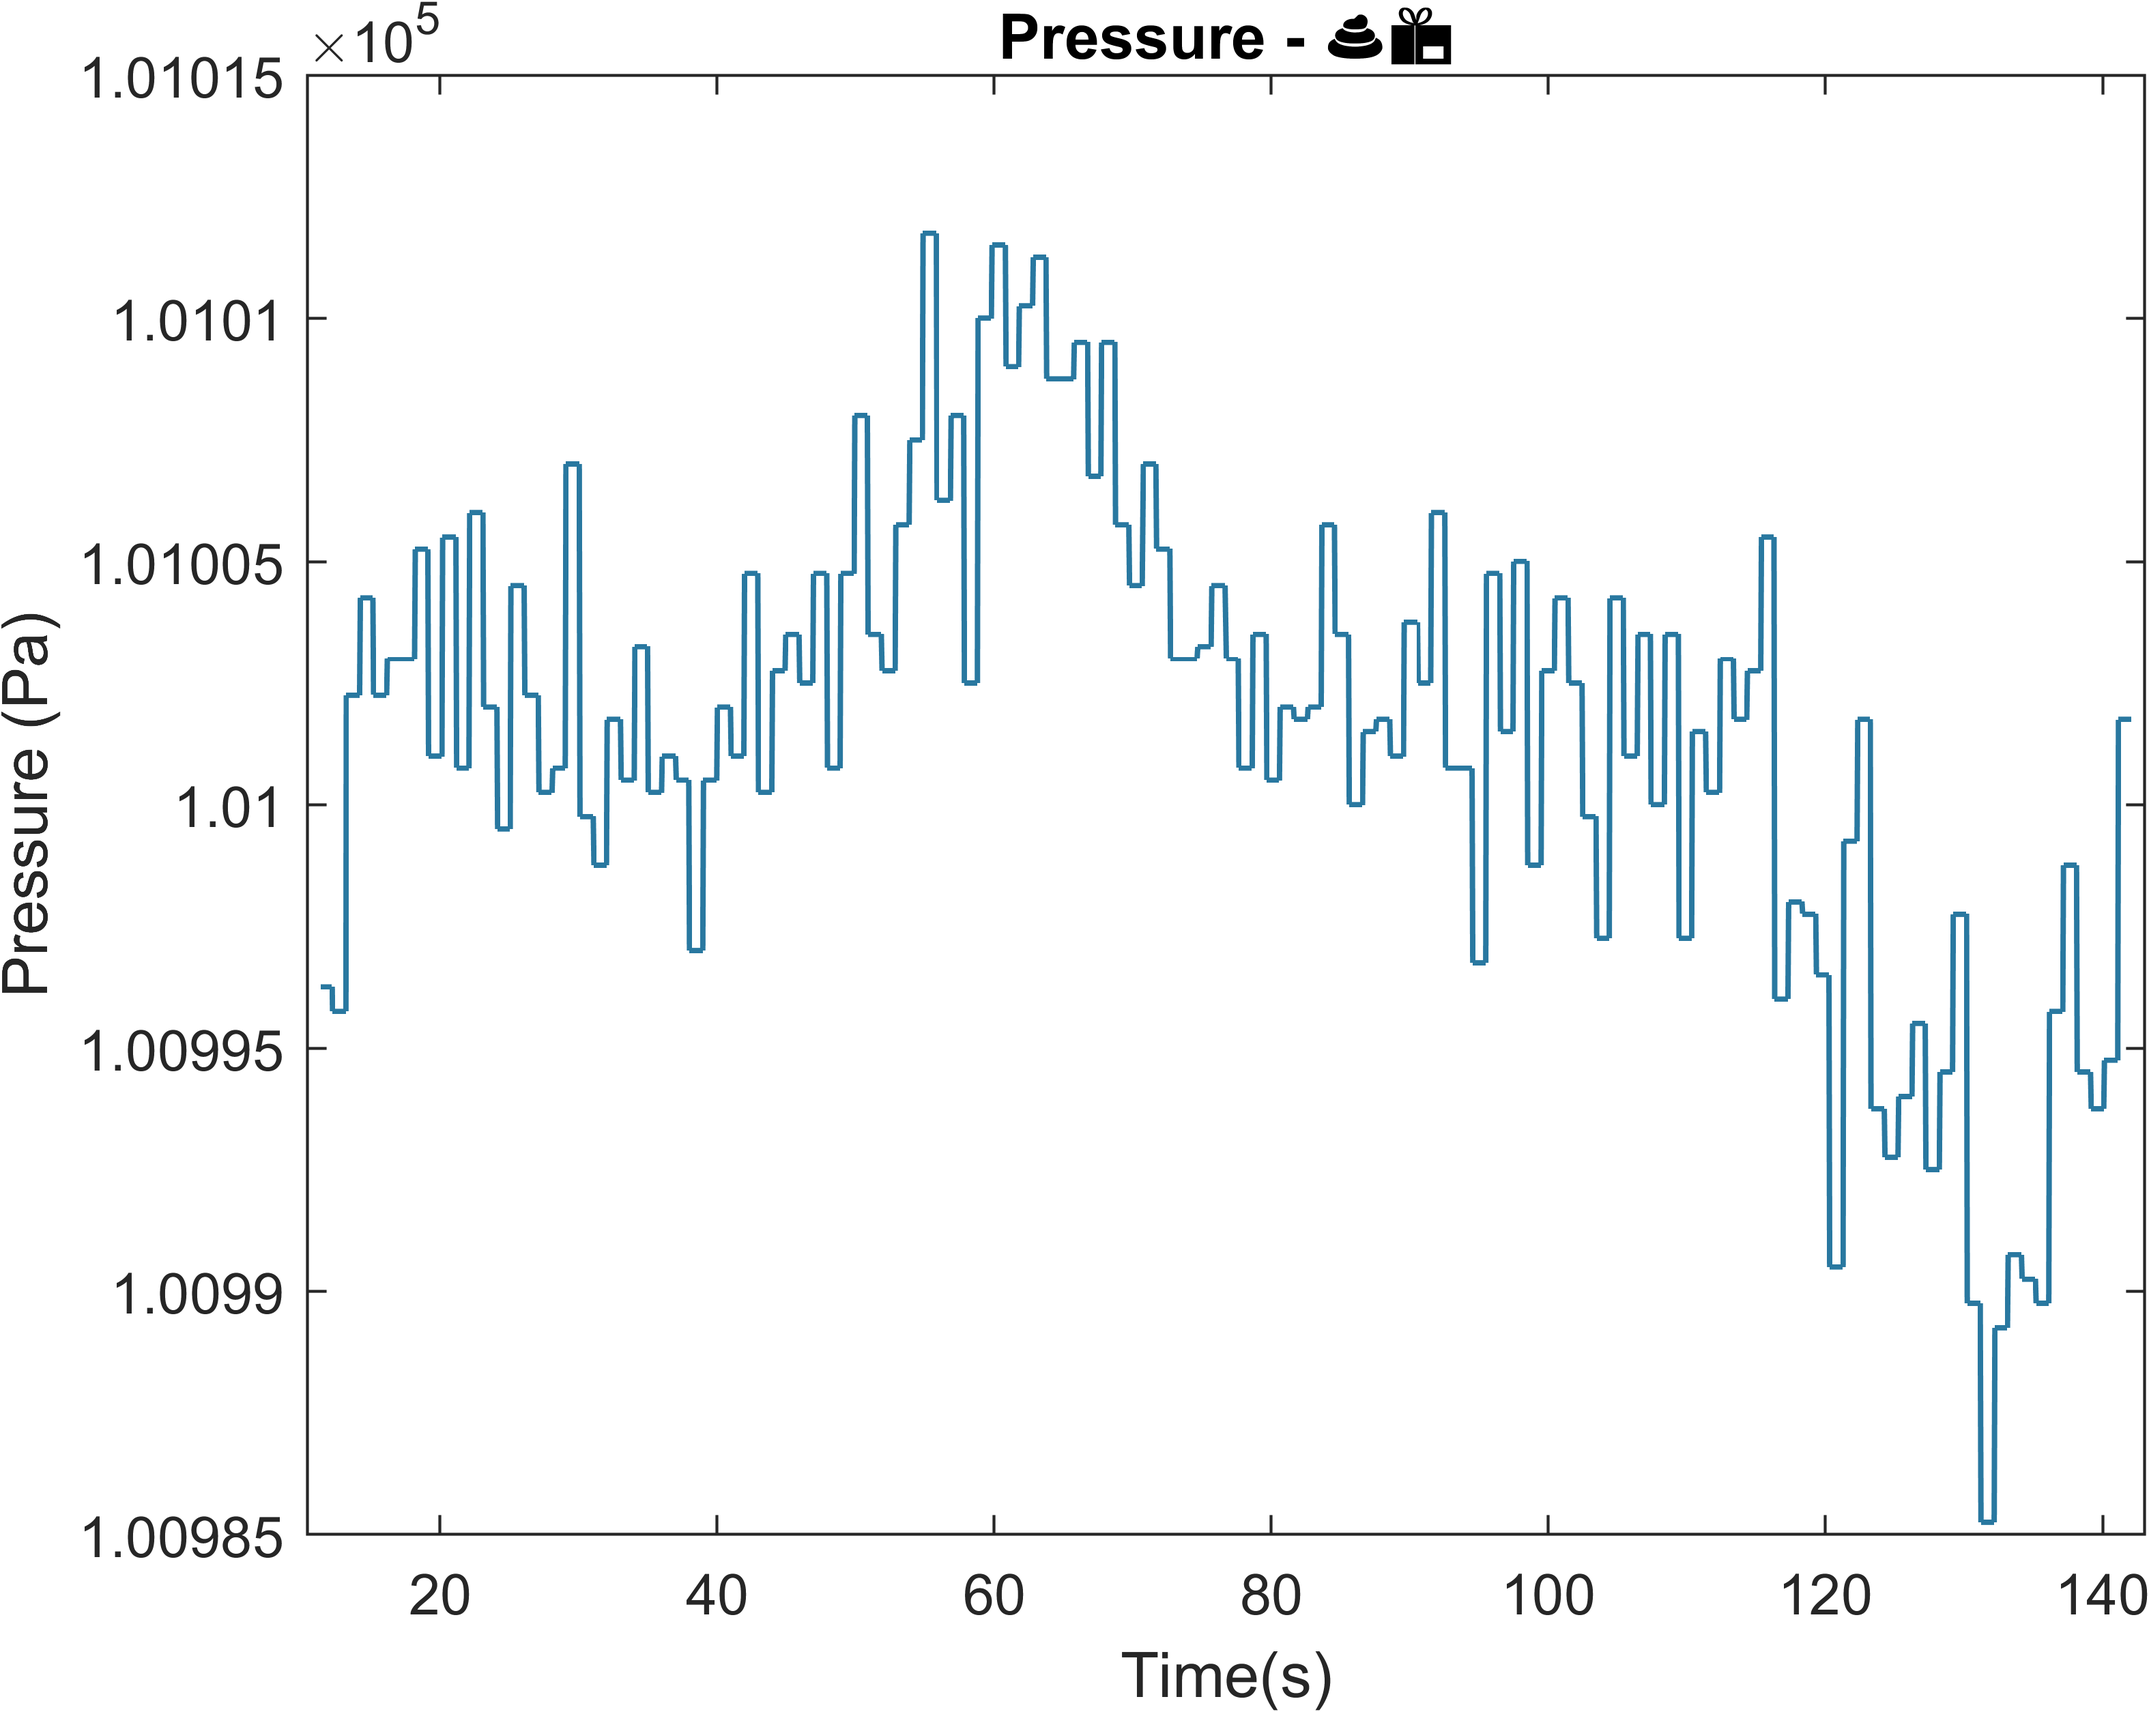
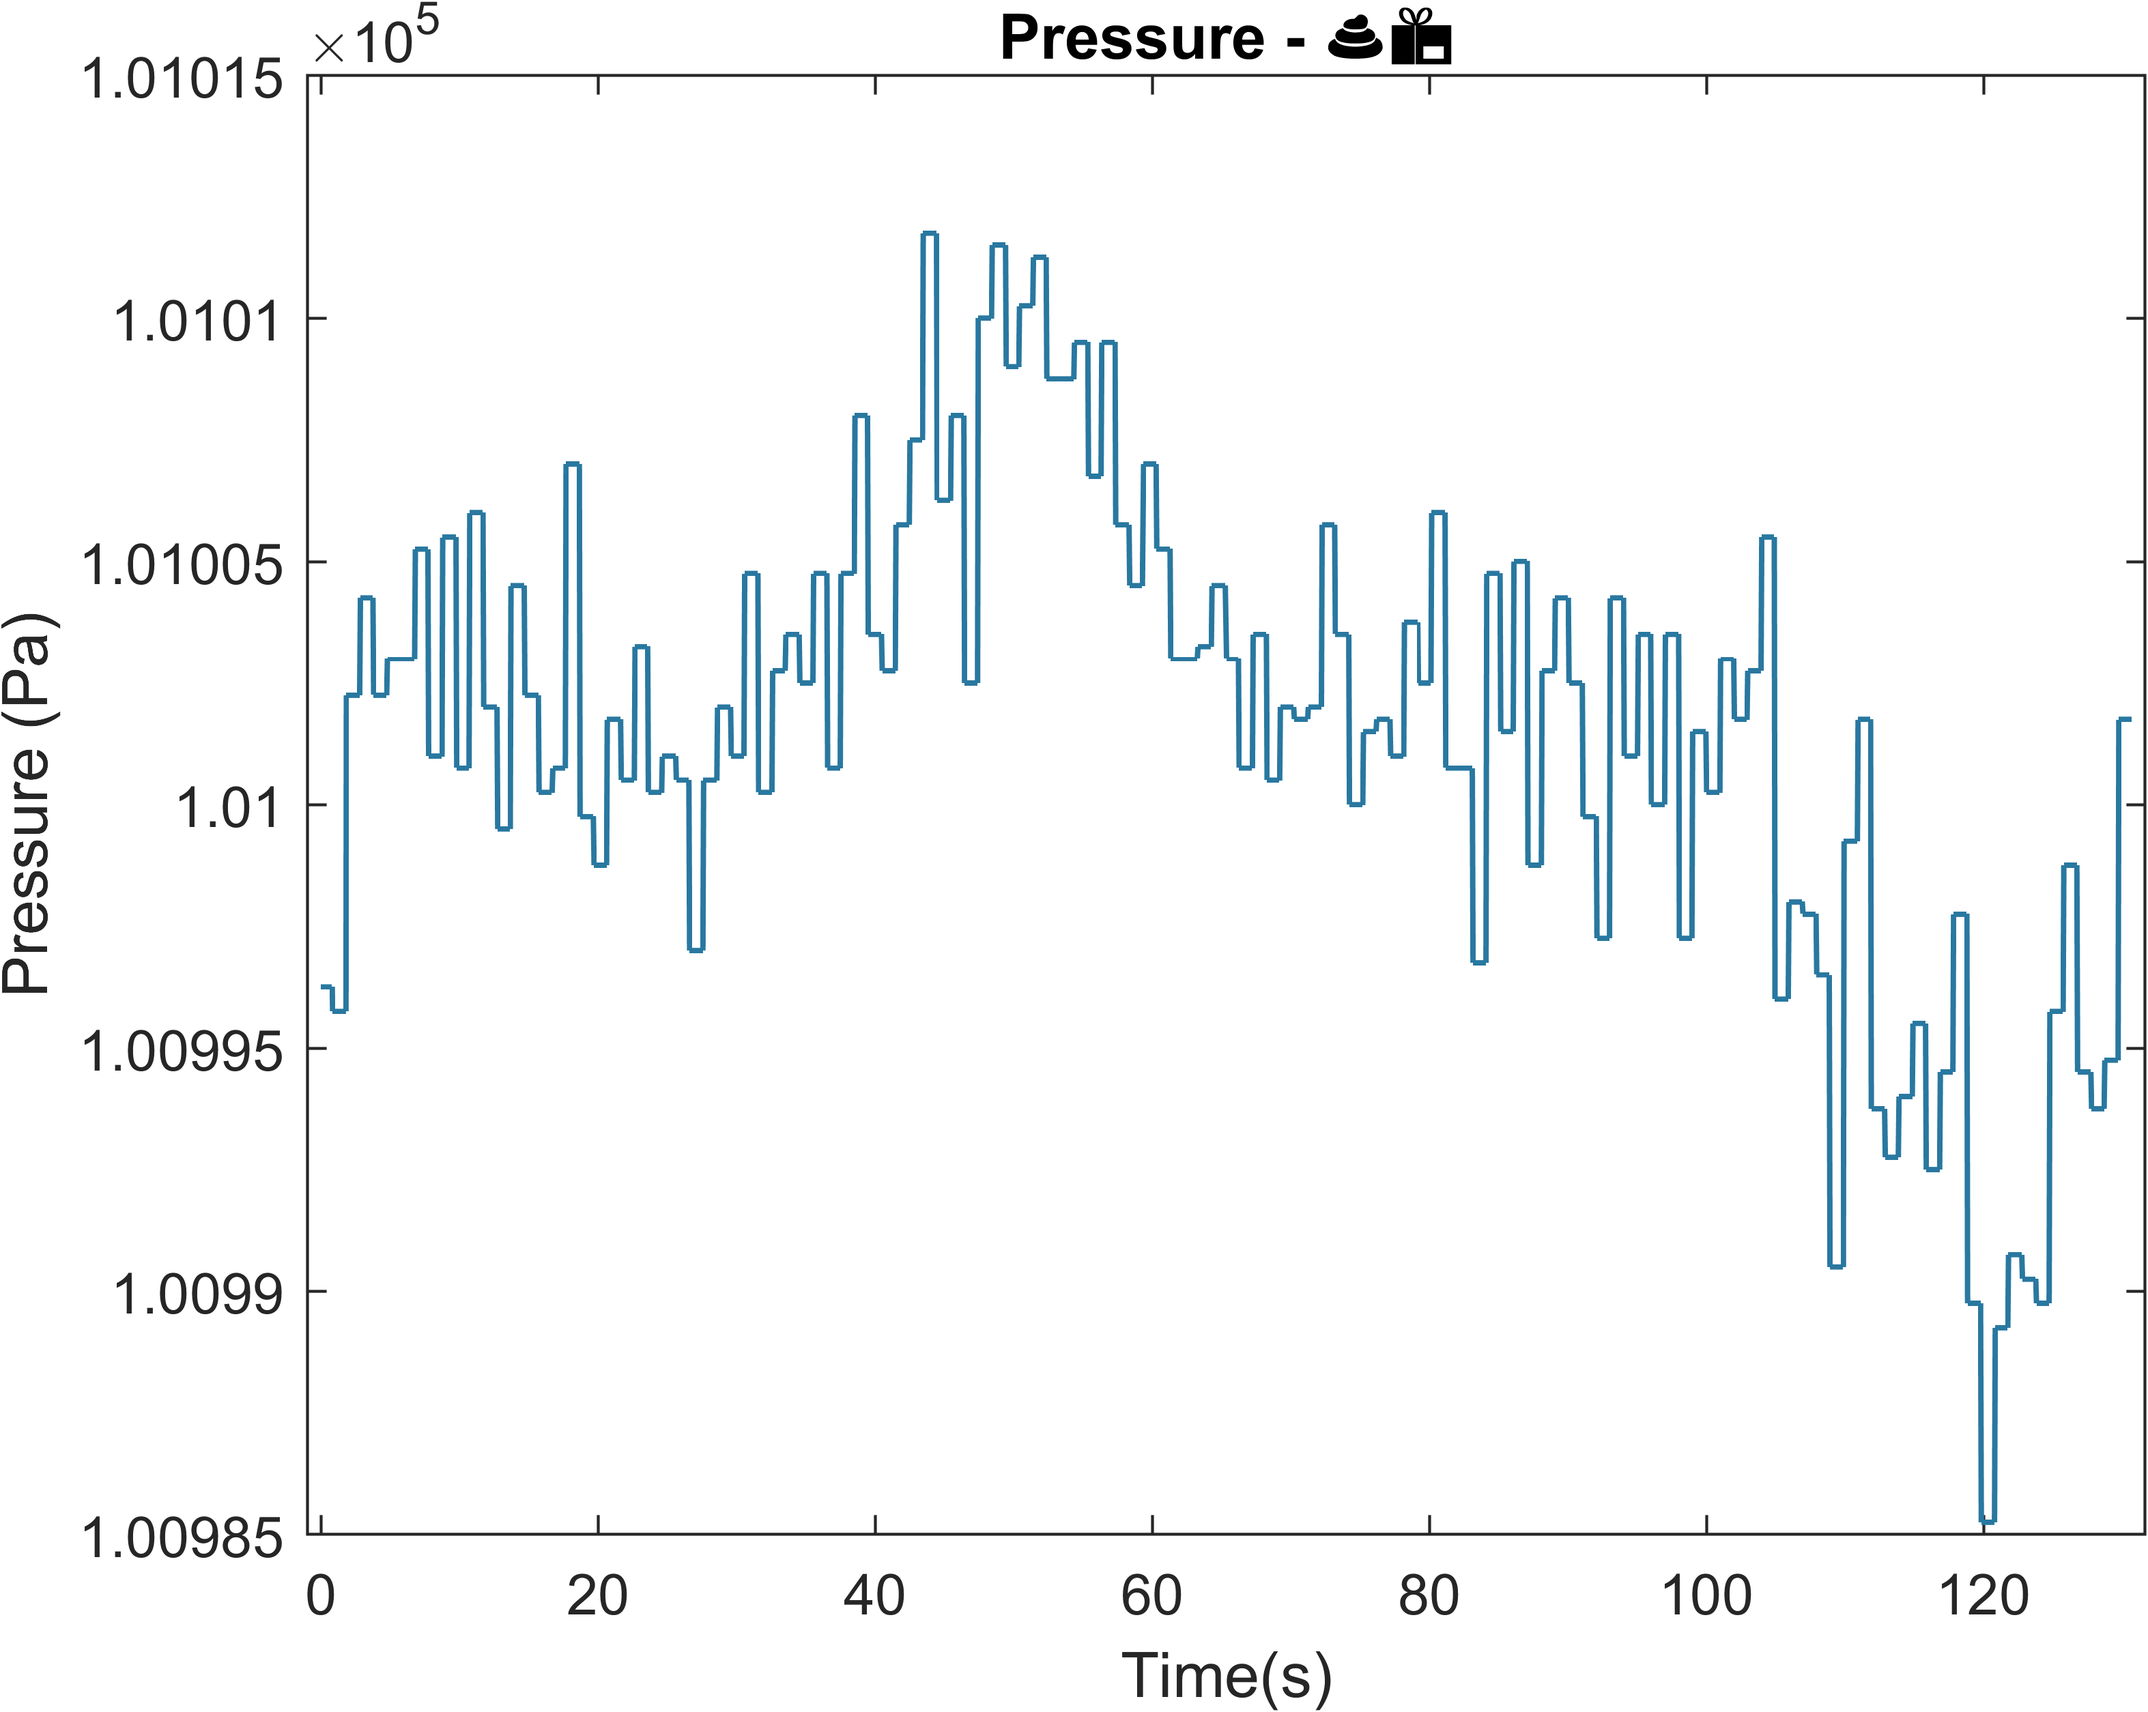
shift t values to be from recording start

diff --git a/data_processing/astra.m b/data_processing/astra.m
@@ -25,6 +25,8 @@ g_z = data(:, 9);
 
 % convert from ms to s
 t = t/1000;
+% shift t values to recording start
+t = t - min(t);
 
 figure
 hold on
